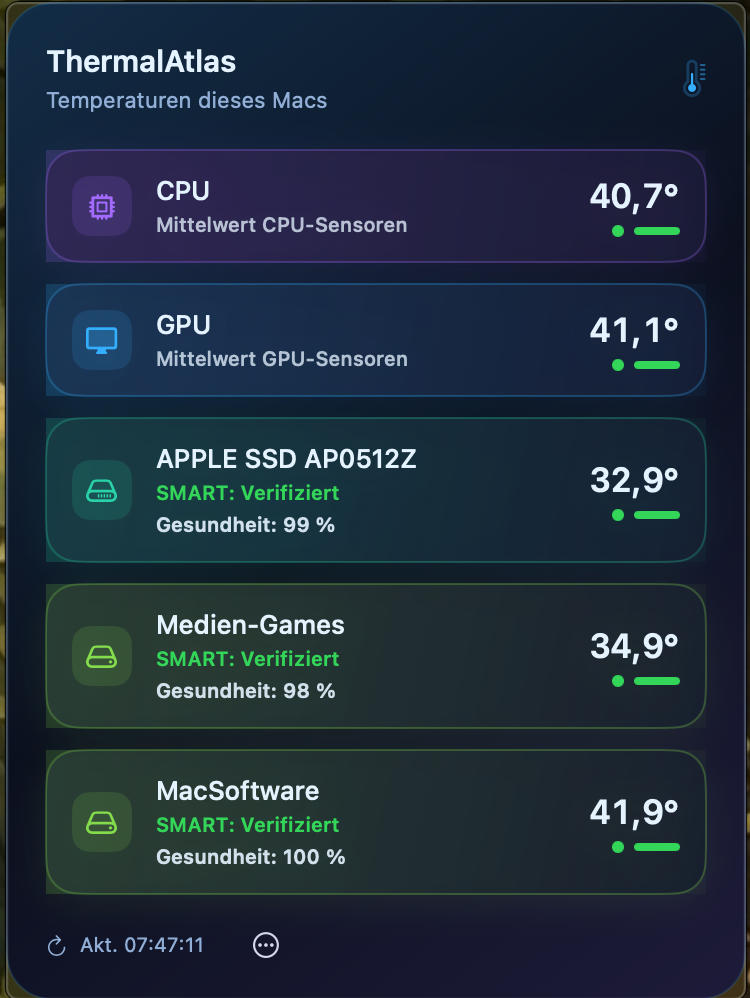
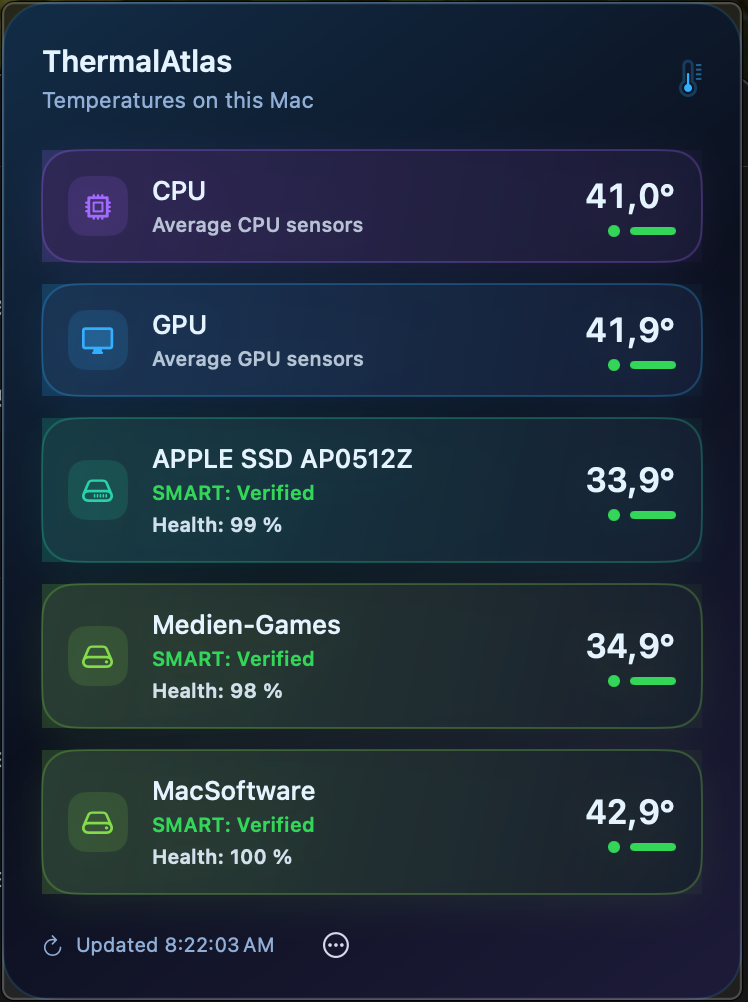
docs: refresh English theme screenshots

diff --git a/README.md b/README.md
@@ -36,9 +36,9 @@ The app is designed for people who want to check Mac thermal conditions without 
 
 | Classic | Liquid Glass |
 | --- | --- |
-| <img src="Resources/Screenshots/classic.png?v=4ecc323" width="330" alt="ThermalAtlas Classic macOS theme showing CPU, GPU, internal SSD, and external SSD temperature cards"> | <img src="Resources/Screenshots/liquid-glass.png?v=4ecc323" width="330" alt="ThermalAtlas Liquid Glass macOS theme showing CPU, GPU, internal SSD, and external SSD temperature cards"> |
+| <img src="Resources/Screenshots/classic.png?v=20260822-english-ui" width="330" alt="ThermalAtlas Classic macOS theme showing CPU, GPU, internal SSD, and external SSD temperature cards"> | <img src="Resources/Screenshots/liquid-glass.png?v=20260822-english-ui" width="330" alt="ThermalAtlas Liquid Glass macOS theme showing CPU, GPU, internal SSD, and external SSD temperature cards"> |
 | Aurora | Ember |
-| <img src="Resources/Screenshots/aurora.png?v=4ecc323" width="330" alt="ThermalAtlas Aurora macOS theme showing CPU, GPU, internal SSD, and external SSD temperature cards"> | <img src="Resources/Screenshots/ember.png?v=4ecc323" width="330" alt="ThermalAtlas Ember macOS theme showing CPU, GPU, internal SSD, and external SSD temperature cards"> |
+| <img src="Resources/Screenshots/aurora.png?v=20260822-english-ui" width="330" alt="ThermalAtlas Aurora macOS theme showing CPU, GPU, internal SSD, and external SSD temperature cards"> | <img src="Resources/Screenshots/ember.png?v=20260822-english-ui" width="330" alt="ThermalAtlas Ember macOS theme showing CPU, GPU, internal SSD, and external SSD temperature cards"> |
 
 ## Requirements
 

diff --git a/README.de.md b/README.de.md
@@ -36,9 +36,9 @@ Die App richtet sich an Menschen, die die thermische Auslastung ihres Macs ohne 
 
 | Klassisch | Liquid Glass |
 | --- | --- |
-| <img src="Resources/Screenshots/classic.png?v=4ecc323" width="330" alt="Klassisches ThermalAtlas-macOS-Theme mit Temperaturkarten für CPU, GPU, interne SSD und externe SSD"> | <img src="Resources/Screenshots/liquid-glass.png?v=4ecc323" width="330" alt="ThermalAtlas-Liquid-Glass-macOS-Theme mit Temperaturkarten für CPU, GPU, interne SSD und externe SSD"> |
+| <img src="Resources/Screenshots/classic.png?v=20260822-english-ui" width="330" alt="Klassisches ThermalAtlas-macOS-Theme mit Temperaturkarten für CPU, GPU, interne SSD und externe SSD"> | <img src="Resources/Screenshots/liquid-glass.png?v=20260822-english-ui" width="330" alt="ThermalAtlas-Liquid-Glass-macOS-Theme mit Temperaturkarten für CPU, GPU, interne SSD und externe SSD"> |
 | Aurora | Ember |
-| <img src="Resources/Screenshots/aurora.png?v=4ecc323" width="330" alt="ThermalAtlas-Aurora-macOS-Theme mit Temperaturkarten für CPU, GPU, interne SSD und externe SSD"> | <img src="Resources/Screenshots/ember.png?v=4ecc323" width="330" alt="ThermalAtlas-Ember-macOS-Theme mit Temperaturkarten für CPU, GPU, interne SSD und externe SSD"> |
+| <img src="Resources/Screenshots/aurora.png?v=20260822-english-ui" width="330" alt="ThermalAtlas-Aurora-macOS-Theme mit Temperaturkarten für CPU, GPU, interne SSD und externe SSD"> | <img src="Resources/Screenshots/ember.png?v=20260822-english-ui" width="330" alt="ThermalAtlas-Ember-macOS-Theme mit Temperaturkarten für CPU, GPU, interne SSD und externe SSD"> |
 
 ## Voraussetzungen
 
